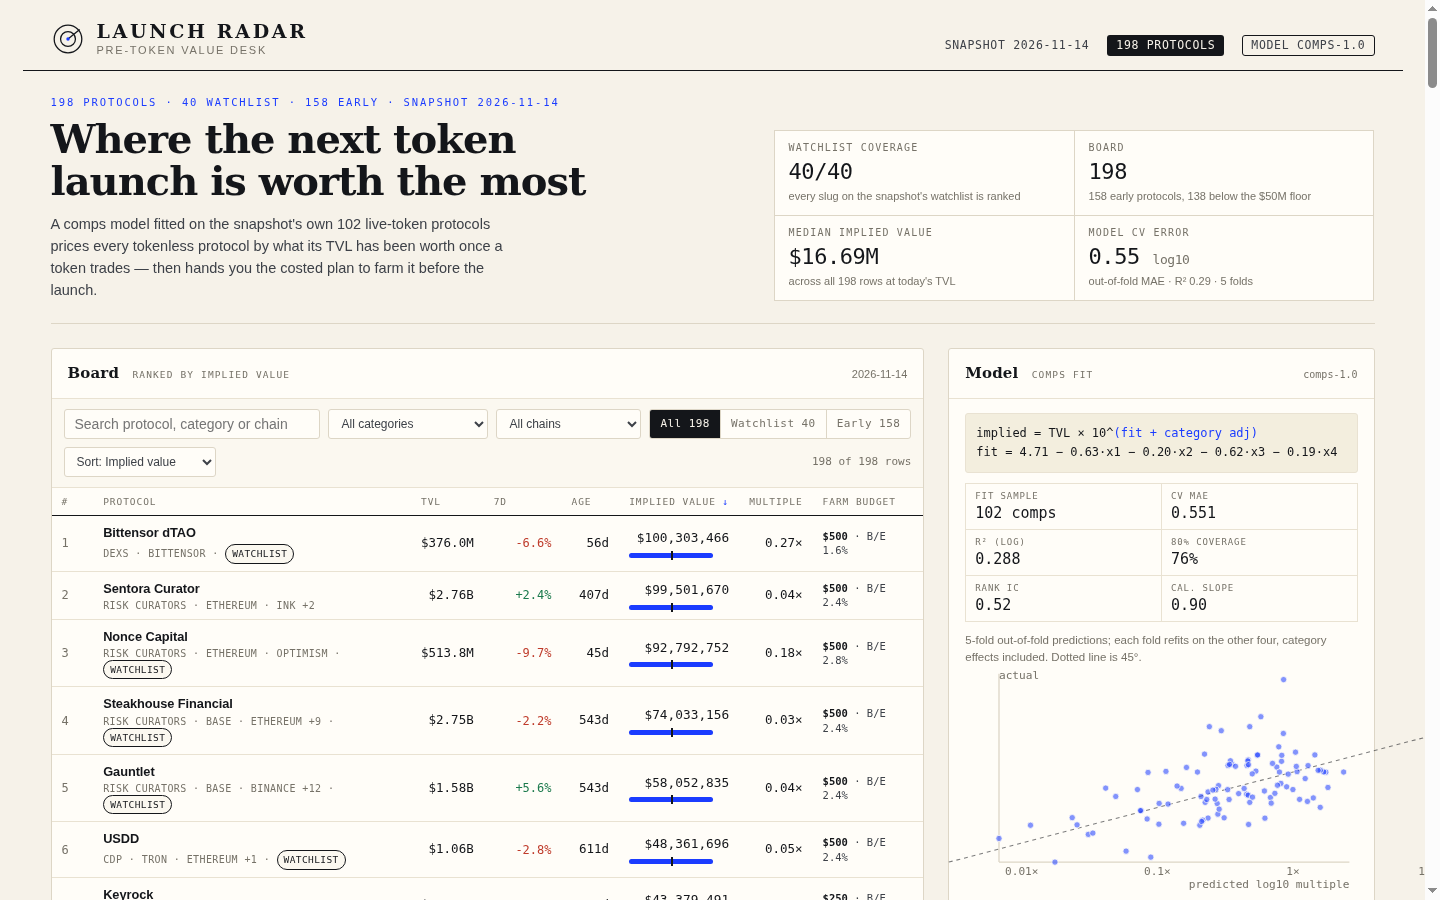
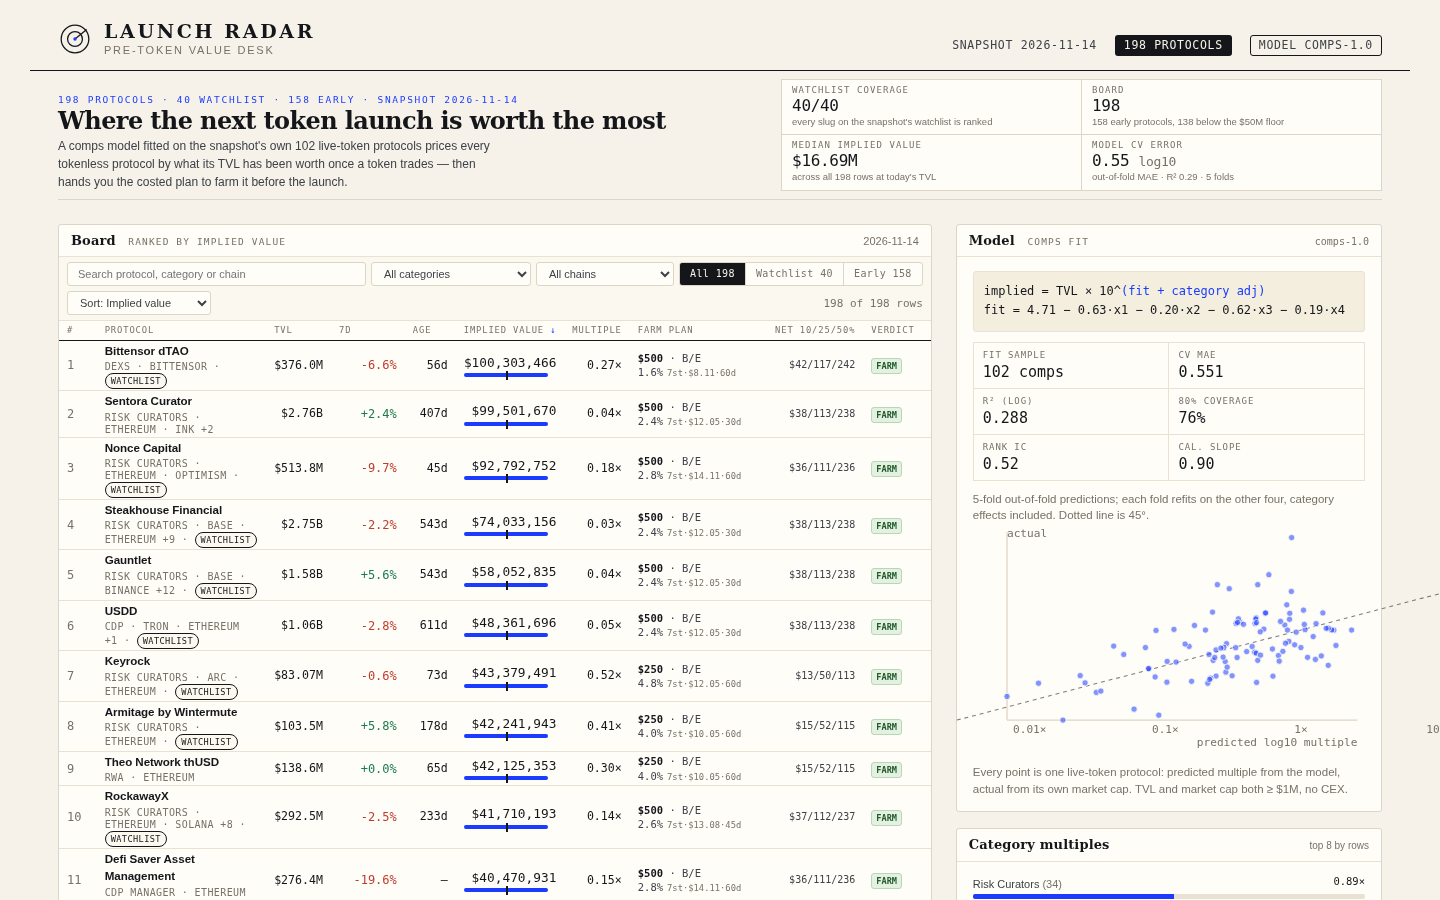
board: show farm plan, net at 10/25/50% and a verdict per row

diff --git a/dashboard/app.css b/dashboard/app.css
@@ -208,3 +208,50 @@ svg.bars rect.zero { stroke: var(--ink); stroke-width: 0.8; }
   .desk, .detail-grid, .method, .hero, .detail-head { grid-template-columns: minmax(0, 1fr); }
   .bignum { text-align: left; }
 }
+
+/* offline test: denser board cover (rows above the fold) */
+#view { padding: 14px 28px 24px; }
+.hero { padding-bottom: 12px; }
+.hero h1 { font-size: 28px; line-height: 1.04; }
+.hero .thesis { margin-top: 6px; font-size: 13px; }
+.hero .kicker { margin-bottom: 6px; }
+.kpi { min-height: 58px; padding: 8px 12px; }
+.kpi .value { margin-top: 4px; font-size: 21px; }
+.kpi .value.mono { font-size: 19px; }
+.kpi .sub { margin-top: 3px; font-size: 10.5px; }
+.card > header { padding: 9px 14px; }
+.controls { padding: 7px 10px; gap: 6px; }
+table.board thead th { padding: 5px 9px; }
+table.board td { padding: 3px 9px; }
+table.board { font-size: 12.2px; }
+.pname { font-size: 12.2px; }
+
+/* offline test 2: push cover density into the 300-350 KB band */
+#view { padding: 8px 28px 20px; }
+.hero { padding-bottom: 8px; }
+.hero h1 { font-size: 24px; line-height: 1.0; }
+.hero .thesis { margin-top: 4px; font-size: 12px; max-width: 66ch; }
+.hero .kicker { margin-bottom: 4px; font-size: 9.5px; }
+.kpi { min-height: 46px; padding: 6px 10px; }
+.kpi .label { font-size: 9px; }
+.kpi .value { margin-top: 3px; font-size: 18px; }
+.kpi .value.mono { font-size: 16px; }
+.kpi .sub { margin-top: 2px; font-size: 9.5px; }
+.card > header { padding: 6px 12px; }
+.card h2 { font-size: 13px; }
+.controls { padding: 5px 8px; gap: 5px; }
+.controls input[type="search"], .controls select { height: 24px; font-size: 11px; }
+.seg button { height: 22px; font-size: 10px; }
+table.board { font-size: 11.6px; }
+table.board thead th { padding: 4px 8px; font-size: 8.8px; }
+table.board td { padding: 1px 8px; }
+.pname { font-size: 11.6px; }
+.chip { padding: 1px 5px; font-size: 8.6px; }
+.rangebar { margin-top: 2px; height: 4px; }
+
+table.board .plan{margin-left:4px;font:400 8.8px/1.3 var(--mono);color:var(--muted);white-space:nowrap}
+table.board td.netcell{font:400 10px/1.2 var(--mono);white-space:nowrap;color:var(--ink-2)}
+.vchip{display:inline-block;padding:1px 4px;border-radius:3px;font:600 8.6px/1.4 var(--mono);white-space:nowrap}
+.v-farm{background:#e3f0e2;color:#235c2a;border:1px solid #b7d8b4}
+.v-marginal{background:#f7ecd9;color:#7a5210;border:1px solid #e3cda6}
+.v-skip{background:#f0e6e4;color:#7b3b32;border:1px solid #dcc3bd}

diff --git a/dashboard/app.js b/dashboard/app.js
@@ -155,7 +155,8 @@
     }
     var head = [
       ['rank', '#'], ['name', 'Protocol'], ['tvl', 'TVL'], ['growth', '7d'],
-      ['age', 'Age'], ['implied', 'Implied value'], ['multiple', 'Multiple'], ['farm', 'Farm budget']
+      ['age', 'Age'], ['implied', 'Implied value'], ['multiple', 'Multiple'], ['farm', 'Farm plan'],
+      ['net', 'Net 10/25/50%'], ['verdict', 'Verdict']
     ].map(function (h) {
       var active = state.sort === h[0];
       var aria = active ? (state.dir === 'asc' ? 'ascending' : 'descending') : 'none';
@@ -165,6 +166,12 @@
       var f = r.farm;
       var be = f ? f.break_even_pct.toFixed(1) : '—';
       var pos = f ? '$' + f.position_usd : '—';
+      var plan = f ? r.farm_steps.length + 'st·$' + f.total_cost_usd.toFixed(2) + '·' + f.hold_days + 'd' : '—';
+      var nets = f ? '$' + Math.round(f.net_10_usd) + '/' + Math.round(f.net_25_usd) + '/' + Math.round(f.net_50_usd) : '—';
+      var v = !f ? ['—', 'v-skip', 'no farm plan']
+        : f.net_10_usd > 0 ? ['FARM', 'v-farm', 'a 10% airdrop pays: net $' + Math.round(f.net_10_usd) + ' after $' + f.total_cost_usd.toFixed(2) + ' cost']
+        : f.net_25_usd > 0 ? ['MARGINAL', 'v-marginal', 'needs a 25% airdrop: net $' + Math.round(f.net_25_usd)]
+        : ['SKIP', 'v-skip', 'not paid even at a 50% airdrop'];
       return '<tr tabindex="0" data-slug="' + esc(r.slug) + '" data-rank="' + r.rank + '">' +
         '<td class="rk rank num">' + r.rank + '</td>' +
         '<td><span class="pname">' + esc(r.name) + '</span><span class="pmeta">' +
@@ -175,7 +182,9 @@
         '<td class="r num">' + (r.age_days == null ? '—' : r.age_days + 'd') + '</td>' +
         '<td class="r"><span class="imp">' + moneyExact(r.implied_value_usd) + '</span>' + rangeBar(r) + '</td>' +
         '<td class="r num">' + fixed(r.implied_value_usd / r.tvl_usd, 2) + '×</td>' +
-        '<td class="farmcell"><b>' + pos + '</b> · B/E ' + be + '%</td>' +
+        '<td class="farmcell"><b>' + pos + '</b> · B/E ' + be + '%<span class="plan">' + plan + '</span></td>' +
+        '<td class="r netcell">' + nets + '</td>' +
+        '<td><span class="vchip ' + v[1] + '" title="' + v[2] + '">' + v[0] + '</span></td>' +
         '</tr>';
     }).join('');
     return '<div class="tablewrap"><table class="board"><thead><tr>' + head + '</tr></thead><tbody>' + body + '</tbody></table></div>';
